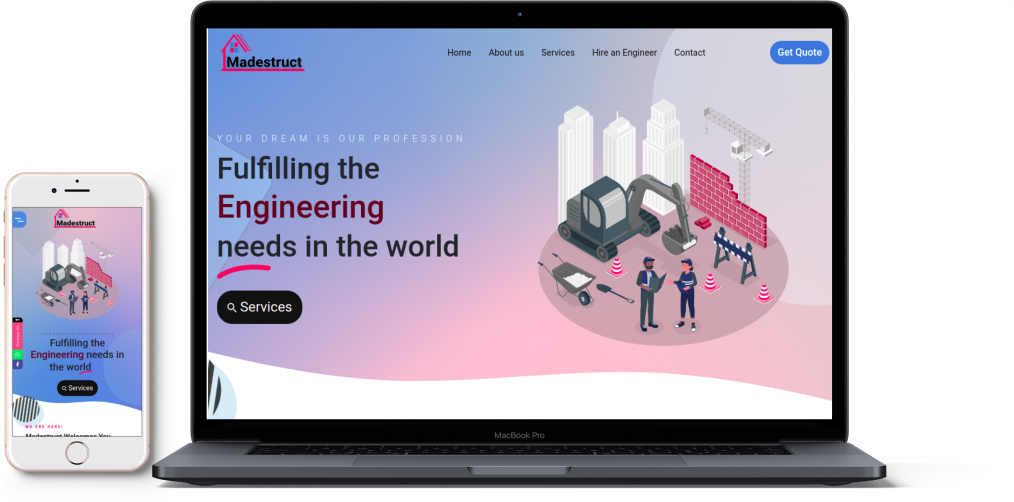
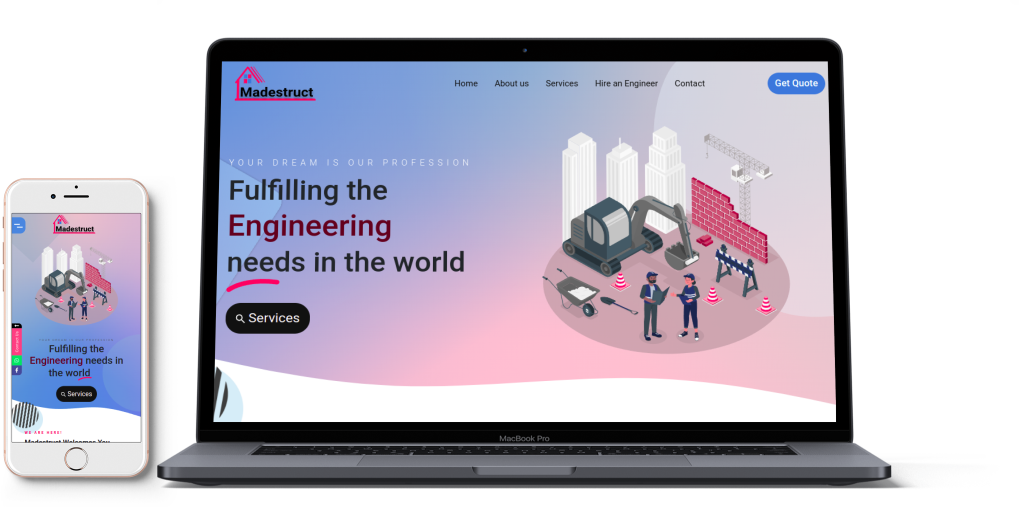
commit

Changed region(s): [[0.0, 0.0, 0.8866, 0.9861], [0.3363, 0.747, 0.5503, 0.7769], [0.6726, 0.747, 0.7337, 0.7769]]

diff --git a/CSS/portfolio.css b/CSS/portfolio.css
@@ -23,25 +23,9 @@ background: radial-gradient(circle, rgba(238,174,202,0.7175245098039216) 0%, rgb
 }
 
 
-@media only screen and (min-width: 900px)
 
-{
 
-.header-content-container{
-  display: flex !important;
-  padding: 0;
-  margin: 0;
-  align-items: center;
-  justify-content: center;
-}
 
-.header-title{
-  display: flex;
-  align-items: center;
-  justify-content: center;
-  flex-direction: row;
-}
-}
 
 .portfolio{
   position: relative;
@@ -115,4 +99,50 @@ background: radial-gradient(circle, rgba(238,174,202,0.7175245098039216) 0%, rgb
 
 .port-image{
   padding: 0 5%;
+}
+
+
+@media only screen and (min-width: 900px) 
+{
+
+.header-content-container{
+  display: flex !important;
+  padding: 0;
+  margin: 0;
+  align-items: center;
+  justify-content: center;
+}
+
+.header-title{
+  display: flex;
+  align-items: center;
+  justify-content: center;
+  flex-direction: row;
+}
+
+.portfolio-card{
+  display: flex !important;
+  flex-direction: row !important;
+  justify-content: center !important;
+  align-items: center !important;
+  gap: 0;
+  
+}
+
+.port-content{
+  width: auto !important;
+  padding:0 5% 3rem 5%;
+}
+
+.port-image img{
+    max-width: 542px !important;
+
+}
+
+.portfolio-card:nth-of-type(even)
+{
+  display: flex !important;
+  flex-direction: row-reverse !important;
+}
+
 }
